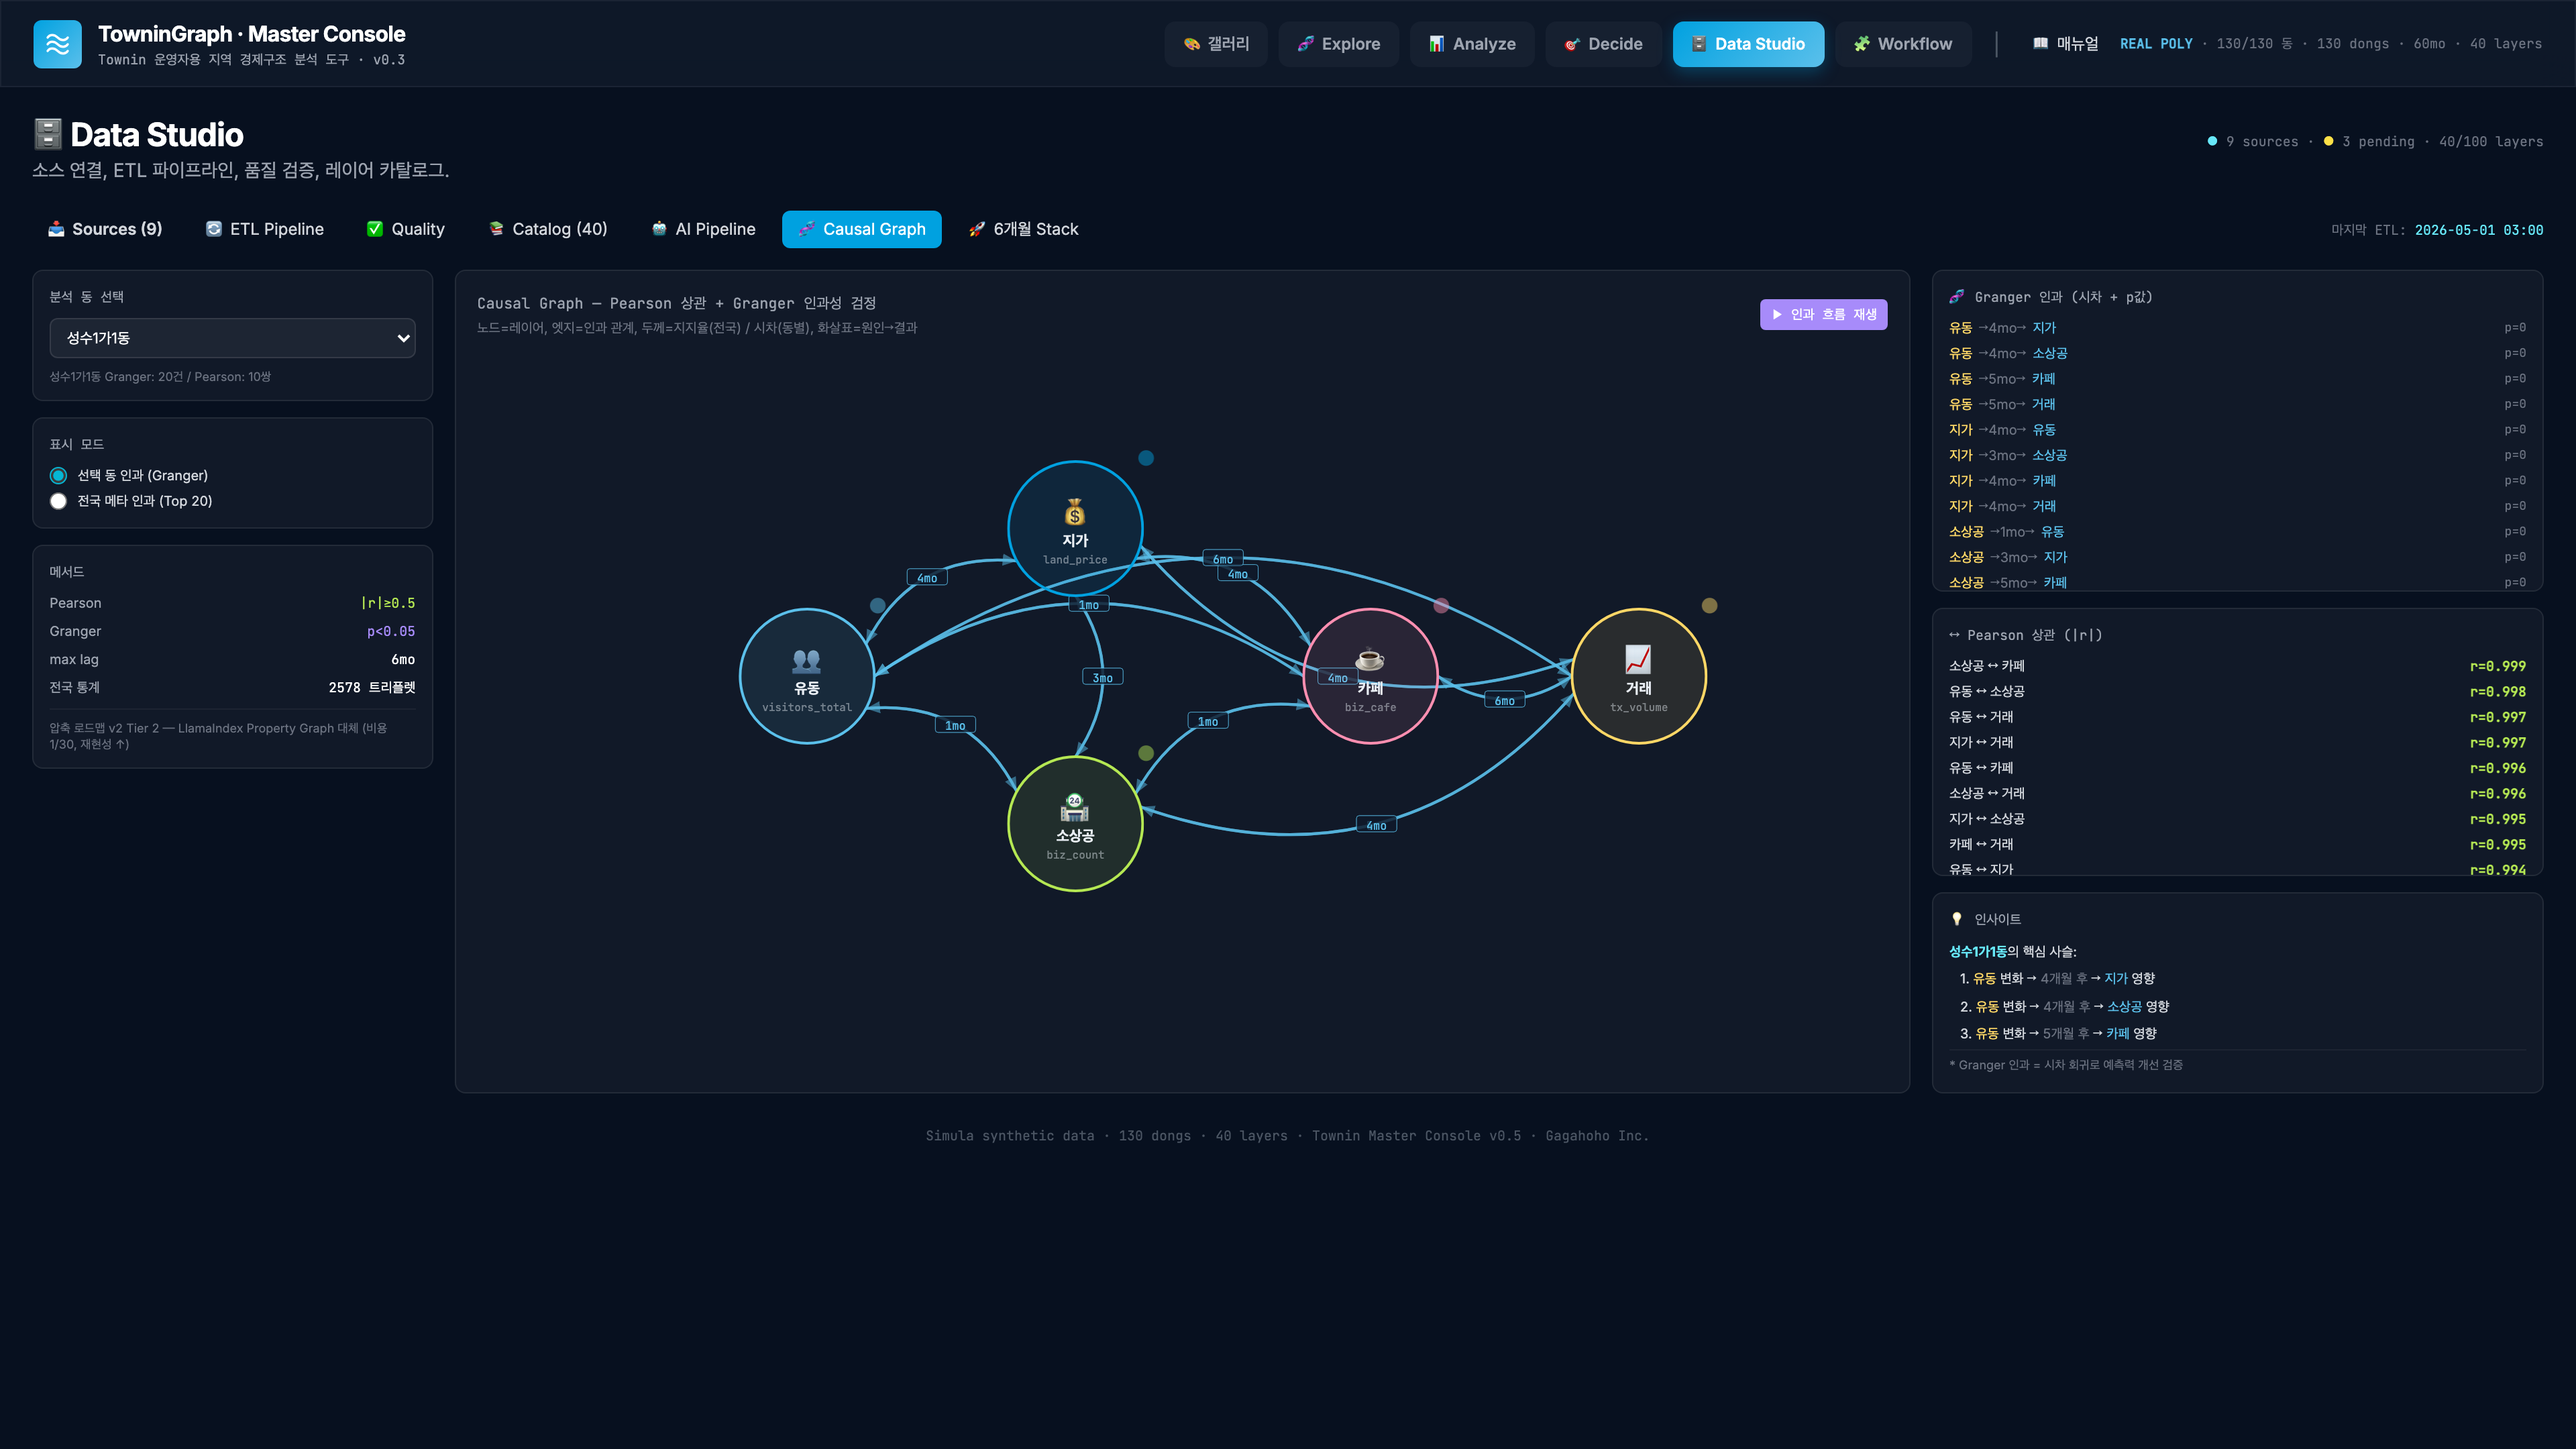
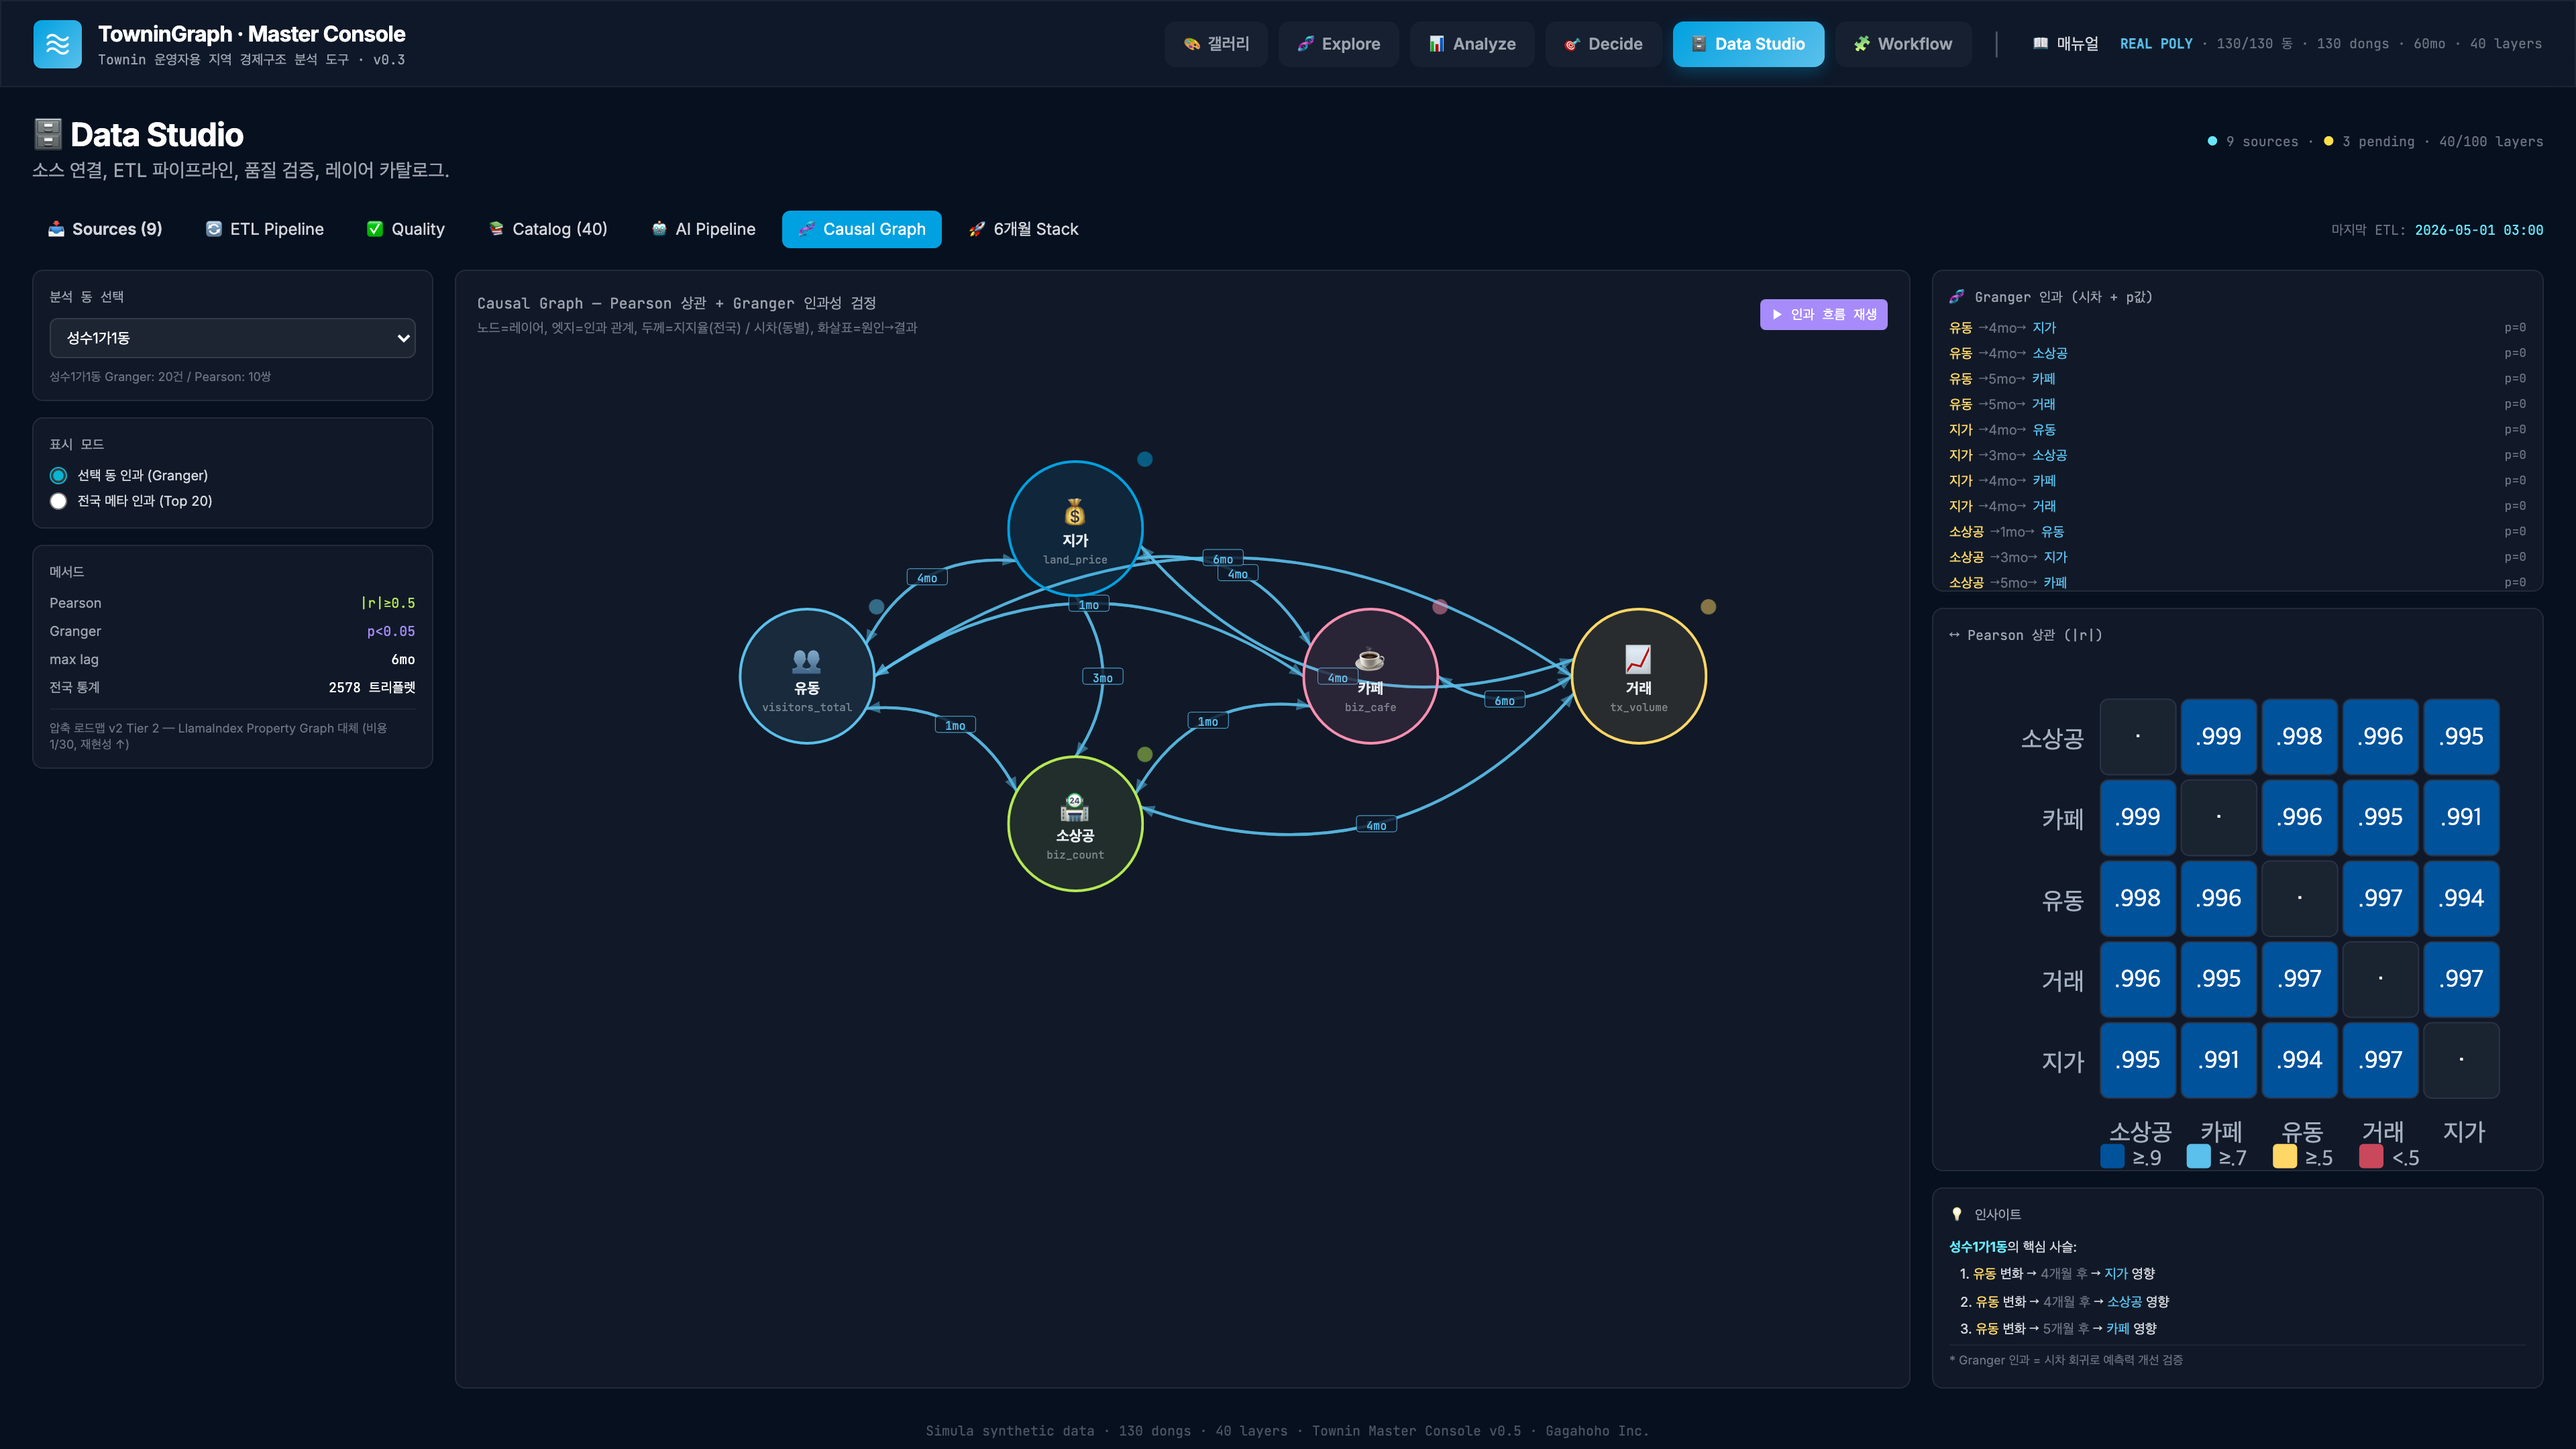
feat(analyze): Pearson 상관 5x5 매트릭스 히트맵 추가
- AlphaFold contact map 메타포로 r 값 리스트를 격자 시각화
- pLDDT 4단계 팔레트 재사용 (≥.9 #00529B / ≥.7 #5BC0EB / ≥.5 #FED766 / <.5 #C9485B)
- 동별 모드에서 5개 지표(소상공/카페/유동/거래/지가) 대칭 매트릭스 렌더
- 셀 hover → r 값 + n=60 툴팁 (lookup으로 양방향 조회)
- 대각선은 점("·") 처리, 비대각 20셀에만 r 데이터
- 3자리 정밀도(.999 vs .996 미세차이 보존)
- 기존 텍스트 리스트는 유지 (빠른 정렬 비교용 보완)

CORR_MATRIX-001 (P1) — verify_all 6/6 PASS, 캐릭터 저니 스크린샷 첨부

Changed region(s): [[0.75, 0.4653, 1.0, 0.8065], [0.75, 0.8375, 0.8438, 0.9616]]

diff --git a/app.js b/app.js
@@ -3604,6 +3604,96 @@ function drawCausalGraph() {
   fillCausalLists();
 }
 
+// [CORR_MATRIX-001] 5x5 Pearson 상관 매트릭스 — pLDDT 팔레트 (>=0.9 hi / >=0.7 mid / >=0.5 low / poor)
+const PEARSON_LAYERS = ['biz_count','biz_cafe','visitors_total','tx_volume','land_price'];
+function pearsonHexByR(absR){
+  if (absR >= 0.9) return '#00529B';
+  if (absR >= 0.7) return '#5BC0EB';
+  if (absR >= 0.5) return '#FED766';
+  return '#C9485B';
+}
+function renderPearsonMatrix(pairs){
+  const svg = document.getElementById('causal-pearson-matrix');
+  const tip = document.getElementById('causal-pearson-tooltip');
+  if (!svg) return;
+  const labels = (CAUSAL && CAUSAL.meta && CAUSAL.meta.layer_label) || {};
+  const layers = PEARSON_LAYERS;
+  const N = layers.length;
+  const lookup = {};
+  (pairs||[]).forEach(p => {
+    lookup[p.a + '|' + p.b] = p;
+    lookup[p.b + '|' + p.a] = p;
+  });
+  const left = 56, top = 16, cell = 30;
+  const w = left + cell * N + 8;
+  const h = top + cell * N + 24;
+  svg.setAttribute('viewBox', `0 0 ${w} ${h}`);
+  let s = '';
+  // 행 라벨 (왼쪽)
+  for (let i = 0; i < N; i++){
+    const lbl = labels[layers[i]] || layers[i];
+    s += `<text x="${left-6}" y="${top + cell*i + cell/2 + 3}" text-anchor="end" fill="#A4B0C0" font-size="9" font-family="ui-sans-serif,-apple-system">${lbl}</text>`;
+  }
+  // 열 라벨 (아래)
+  for (let j = 0; j < N; j++){
+    const lbl = labels[layers[j]] || layers[j];
+    s += `<text x="${left + cell*j + cell/2}" y="${top + cell*N + 14}" text-anchor="middle" fill="#A4B0C0" font-size="9" font-family="ui-sans-serif,-apple-system">${lbl}</text>`;
+  }
+  // 셀
+  for (let i = 0; i < N; i++){
+    for (let j = 0; j < N; j++){
+      const x = left + cell * j;
+      const y = top + cell * i;
+      let fill, txt, abs, r;
+      if (i === j){
+        fill = '#1A2330'; txt = '·'; abs = 1; r = 1;
+      } else {
+        const p = lookup[layers[i] + '|' + layers[j]];
+        if (!p){
+          fill = '#0F1419'; txt = ''; abs = 0; r = NaN;
+        } else {
+          r = p.r; abs = Math.abs(r);
+          fill = pearsonHexByR(abs);
+          // 3자리 정밀도 — 0.999 vs 0.998 같은 미세차이 보존. 선행 0은 공간 절약 위해 제거.
+          txt = abs >= 1 ? '1.00' : '.' + abs.toFixed(3).slice(2);
+        }
+      }
+      const dataAttr = (i === j || isNaN(r)) ? '' : `data-i="${i}" data-j="${j}" data-r="${r}"`;
+      s += `<rect x="${x}" y="${y}" width="${cell-2}" height="${cell-2}" rx="3" fill="${fill}" stroke="#2A3445" stroke-width="0.5" ${dataAttr}><title>${(labels[layers[i]]||layers[i])} ↔ ${(labels[layers[j]]||layers[j])}${isNaN(r)?'':' · r='+r}</title></rect>`;
+      const textColor = (abs >= 0.9 || abs < 0.5) ? '#FFFFFF' : '#0F1419';
+      if (txt) s += `<text x="${x + (cell-2)/2}" y="${y + (cell-2)/2 + 3}" text-anchor="middle" fill="${textColor}" font-size="9" font-family="ui-monospace,SF Mono" pointer-events="none">${txt}</text>`;
+    }
+  }
+  // 범례
+  const legendY = top + cell*N + 22;
+  const legend = [['≥.9','#00529B'],['≥.7','#5BC0EB'],['≥.5','#FED766'],['<.5','#C9485B']];
+  let lx = left;
+  legend.forEach(([t,c])=>{
+    s += `<rect x="${lx}" y="${legendY-7}" width="9" height="9" rx="1.5" fill="${c}"/>`;
+    s += `<text x="${lx+12}" y="${legendY+1}" fill="#A4B0C0" font-size="8" font-family="ui-monospace,SF Mono">${t}</text>`;
+    lx += 32;
+  });
+  svg.innerHTML = s;
+  if (tip) tip.textContent = pairs && pairs.length ? `n=60 · ${pairs.length}쌍 · 셀 hover로 상세` : '데이터 없음';
+  // hover → 좌하단 텍스트 갱신
+  if (tip){
+    svg.querySelectorAll('rect[data-r]').forEach(rect => {
+      rect.style.cursor = 'pointer';
+      rect.addEventListener('mouseenter', e => {
+        const i = +rect.getAttribute('data-i');
+        const j = +rect.getAttribute('data-j');
+        const r = +rect.getAttribute('data-r');
+        const a = labels[layers[i]] || layers[i];
+        const b = labels[layers[j]] || layers[j];
+        tip.innerHTML = `<span style="color:#5BC0EB">${a}</span> ↔ <span style="color:#5BC0EB">${b}</span> · r=${r.toFixed(3)} · n=60`;
+      });
+    });
+    svg.addEventListener('mouseleave', () => {
+      tip.textContent = `n=60 · ${(pairs||[]).length}쌍 · 셀 hover로 상세`;
+    });
+  }
+}
+
 function fillCausalLists() {
   if (!CAUSAL) return;
   const labels = CAUSAL.meta.layer_label || {};
@@ -3629,6 +3719,7 @@ function fillCausalLists() {
     });
     document.getElementById('causal-pearson-list').innerHTML =
       '<div class="text-[10px] text-gray-500">전국 모드에서는 Pearson 미표시 (동별 모드에서 확인)</div>';
+    renderPearsonMatrix([]);
 
     document.getElementById('causal-insight').innerHTML = `
       <div class="space-y-1">
@@ -3657,6 +3748,8 @@ function fillCausalLists() {
         </div>
       `);
     });
+
+    renderPearsonMatrix(dc.pearson || []);
 
     const pearsonEl = document.getElementById('causal-pearson-list');
     pearsonEl.innerHTML = '';

diff --git a/index.html b/index.html
@@ -753,8 +753,10 @@
             <div class="text-[10px] mono text-gray-400 mb-2">🧬 Granger 인과 (시차 + p값)</div>
             <div id="causal-granger-list" class="space-y-1 text-[10px]"></div>
           </div>
-          <div class="glass-light rounded-lg p-3" style="max-height:200px; overflow-y:auto;">
+          <div class="glass-light rounded-lg p-3" style="max-height:420px; overflow-y:auto;">
             <div class="text-[10px] mono text-gray-400 mb-2">↔ Pearson 상관 (|r|)</div>
+            <svg id="causal-pearson-matrix" width="100%" viewBox="0 0 220 220" style="display:block;margin:0 auto 8px"></svg>
+            <div id="causal-pearson-tooltip" class="text-[9px] mono text-gray-400 mb-2" style="min-height:14px"></div>
             <div id="causal-pearson-list" class="space-y-1 text-[10px]"></div>
           </div>
           <div class="glass-light rounded-lg p-3">
